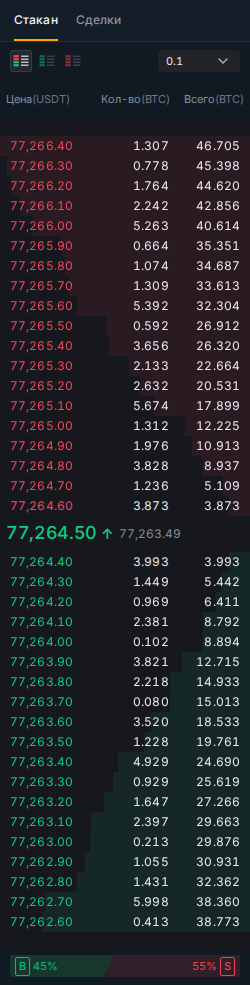
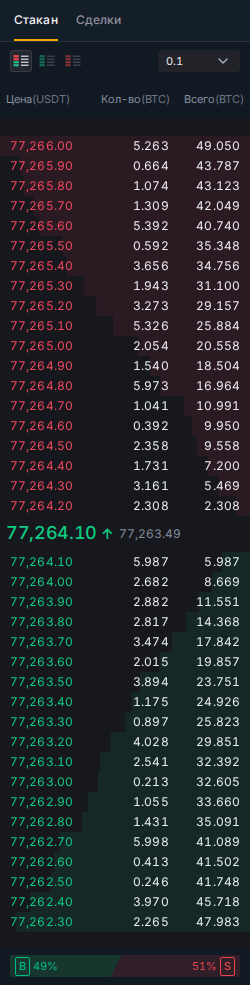
feat(orderbook): finish the reference details, and correct the row-height claim
Third pass. The owner read my "still different" list as unfinished work
rather than as scope; it was.

Row height is the one item I changed my mind about, by measuring instead
of arguing. I had written the difference off as zoomed captures. Measured:
the reference ladder is 34 CSS px in a 462 px panel (0.0736), ours is
20 px in a 250 px panel (0.080) — proportionally the same row, in a panel
half the width. Setting 34 px would not match the reference, it would
halve the levels our column can show. Left alone, with the numbers
recorded.

The rest is now done. The Spot centre is the reference's: last traded, a
fixed-width direction slot, the dollar equivalent, on one line. The spread
is not deleted — it is exact, on the band's tooltip — and the mid remains
the labelled fallback before the first trade, never a blank or a zero. The
last price comes from the shared market snapshot, so no request is added.
Spot gains the three display modes the reference has and the Futures book
already had. Grouping steps one decade at a time, 0,1 / 1 / 10 / 100 /
1 000 on a BTC book, replacing a ladder with two steps no major venue
offers and a coarsest step of 5 quote units.

Two things are deliberately not copied, and said rather than skipped
quietly: the overflow menu, which would open nothing, and the global font
stack, which belongs to the product rather than to this panel.

Nine book/terminal suites: 190 tests, 182 passed, 8 failed, all 8 known on
[…]

diff --git a/frontend/src/components/OrderBookPanel.tsx b/frontend/src/components/OrderBookPanel.tsx
@@ -1,6 +1,7 @@
 import { formatBookAmount, formatBookTotal, formatCompactBookValue } from '../lib/terminalPresentation';
 import { memo, useEffect, useMemo, useRef, useState } from 'react';
 import { useLanguage } from '../lib/i18n';
+import { useMarketTicker } from '../lib/useMarketData';
 import { formatPrice } from '../lib/formatNumber';
 import { PanelRightClose } from 'lucide-react';
 import { aggregateSpotBook, defaultSpotGroupStep, formatSpotBookNumber, formatSpotSpreadPercent,
@@ -121,6 +122,23 @@ export function OrderBookPanel({
 }) {
   const { t } = useLanguage();
   const asksViewport = useRef<HTMLDivElement>(null);
+  // Which side(s) to draw — the reference's three display modes, which the
+  // Futures book already had and this one did not.
+  const [mode, setMode] = useState<'both' | 'bids' | 'asks'>('both');
+  /* The LAST TRADED price for the centre band, from the shared market snapshot
+     the rest of the page already subscribes to — no extra request. The band
+     used to print the mid; the reference prints the last, with a direction
+     arrow, and keeps the mid's job (a sanity number) in the spread tooltip. */
+  const { ticker } = useMarketTicker(pair ?? '');
+  const lastTraded = ticker && Number.isFinite(Number(ticker.lastPrice)) && Number(ticker.lastPrice) > 0 ? Number(ticker.lastPrice) : null;
+  const previousLast = useRef<{ pair?: string; price: number | null }>({ pair, price: null });
+  const [direction, setDirection] = useState<'up' | 'down' | ''>('');
+  useEffect(() => {
+    const old = previousLast.current;
+    if (old.pair !== pair || lastTraded === null) setDirection('');
+    else if (old.price !== null && old.price !== lastTraded) setDirection(lastTraded > old.price ? 'up' : 'down');
+    previousLast.current = { pair, price: lastTraded };
+  }, [pair, lastTraded]);
   const [visibleLevels, setVisibleLevels] = useState(VISIBLE_LEVELS_PER_SIDE);
   useEffect(() => {
     const element = asksViewport.current;
@@ -189,6 +207,17 @@ export function OrderBookPanel({
       <div className="orderbook-header">
         <span className="orderbook-title">{t('trade.orderBook')}</span>
         <div className="orderbook-header-actions">
+          {/* The reference's three display modes. Same glyphs as the Futures
+              book so the two panels read as one component. */}
+          <div className="ob-modes" role="group" aria-label={t('trade.orderBook')}>
+            {(['both', 'bids', 'asks'] as const).map(value => <button type="button" key={value}
+              aria-label={value === 'both' ? `${t('trade.buy')} / ${t('trade.sell')}` : t(value === 'bids' ? 'trade.buy' : 'trade.sell')}
+              aria-pressed={mode === value} onClick={() => setMode(value)}>
+              <svg viewBox="0 0 24 20" aria-hidden="true">{[0, 1, 2, 3].map(i => <g key={i}>
+                <path d={`M2 ${3 + i * 4}h7`} stroke={value === 'asks' || (value === 'both' && i < 2) ? '#f6465d' : '#0ecb81'} strokeWidth="3" />
+                <path d={`M12 ${3 + i * 4}h10`} stroke="currentColor" strokeWidth="2" /></g>)}</svg>
+            </button>)}
+          </div>
           <select
             className="ob-group-select"
             value={groupStep}
@@ -221,25 +250,30 @@ export function OrderBookPanel({
           down and build a new one — measured at 14 per second on the Futures
           book on a replayed feed, and this panel keyed the same way. Row N is
           the Nth level out from the touch; the level is its contents. */}
-      <div className="orderbook-asks" ref={asksViewport}>
+      <div className={`orderbook-asks${mode === 'bids' ? ' ob-hidden' : ''}`} ref={asksViewport}>
         {asksDepth.map((level, index) => (
           <Row key={`sell-${index}`} level={level} decimals={decimals} spotStep={spotPrecision ? groupStep : undefined} side="SELL" maxDepth={maxDepth} onPick={onPickPrice} />
         ))}
       </div>
 
-      <div className="orderbook-spread">
+      {/* The reference centre: last traded, a fixed-width direction slot, then
+          the dollar equivalent. One line, and the arrow can never shift the
+          digits because it has its own slot. The spread is still exact and
+          still reachable — on the band's tooltip — instead of a second line of
+          small print under the price. When no trade has been seen the mid is
+          shown and labelled, rather than a blank. */}
+      <div className="orderbook-spread" title={spread !== null && spreadPct !== null
+        ? `${t('trade.spread')} ${priceLabel(spread)} (${spotPrecision ? formatSpotSpreadPercent(spreadPct) : `${spreadPct.toFixed(3)}%`})`
+        : undefined}>
         <div className="ob-spread-price">
-          {midPrice !== null ? priceLabel(midPrice) : '—'}
-          {showUsd && midPrice !== null && <span className="usd">≈ ${priceLabel(midPrice)}</span>}
+          <span className={`ob-last ${direction}`}>{lastTraded !== null ? priceLabel(lastTraded) : midPrice !== null ? priceLabel(midPrice) : '—'}</span>
+          <span className="ob-arrow" aria-hidden="true">{direction === 'up' ? '↑' : direction === 'down' ? '↓' : ''}</span>
+          {lastTraded === null && midPrice !== null && <small className="ob-mid-label">Mid</small>}
+          {showUsd && (lastTraded ?? midPrice) !== null && <span className="usd">≈ ${priceLabel((lastTraded ?? midPrice)!)}</span>}
         </div>
-        {spread !== null && spreadPct !== null && (
-          <div className="ob-spread-detail">
-            {t('trade.spread')} {priceLabel(spread)} ({spotPrecision ? formatSpotSpreadPercent(spreadPct) : `${spreadPct.toFixed(3)}%`})
-          </div>
-        )}
       </div>
 
-      <div className="orderbook-bids">
+      <div className={`orderbook-bids${mode === 'asks' ? ' ob-hidden' : ''}`}>
         {bidsDepth.map((level, index) => (
           <Row key={`buy-${index}`} level={level} decimals={decimals} spotStep={spotPrecision ? groupStep : undefined} side="BUY" maxDepth={maxDepth} onPick={onPickPrice} />
         ))}

diff --git a/frontend/src/pages/trade-terminal/TerminalAccountPanel.css b/frontend/src/pages/trade-terminal/TerminalAccountPanel.css
@@ -324,4 +324,32 @@
 .trade-terminal.trade-terminal.trade-terminal.trade-terminal.spot-terminal.market-reference.terminal-studio .ob-depth-bar.bid { background:rgba(14,203,129,.09); }
 .trade-terminal.trade-terminal.trade-terminal.trade-terminal.spot-terminal.market-reference.terminal-studio .orderbook-spread { background:#16181e; }
 .trade-terminal.trade-terminal.trade-terminal.trade-terminal.spot-terminal.market-reference.terminal-studio .ob-spread-price { font-weight:500; color:#eaecef; }
-.trade-terminal.trade-terminal.trade-terminal.trade-terminal.spot-terminal.market-reference.terminal-studio :is(.ob-spread-detail,.orderbook-spread .usd) { color:#848e9c; }
+/* `.ob-spread-detail` no longer renders on Spot — the spread moved to the
+   band's tooltip — so only the dollar equivalent is styled here. */
+.trade-terminal.trade-terminal.trade-terminal.trade-terminal.spot-terminal.market-reference.terminal-studio .orderbook-spread .usd { color:#848e9c; }
+
+/* Spot panel chrome, to the reference: three display modes, and a centre band
+   that is one line — last traded, a fixed-width direction slot, the dollar
+   equivalent. The arrow can never move the digits; the spread is exact and
+   lives on the band's tooltip instead of a second line of small print. */
+.trade-terminal.trade-terminal.trade-terminal.trade-terminal.spot-terminal.market-reference.terminal-studio .ob-modes {
+  display:flex; align-items:center; gap:2px;
+}
+.trade-terminal.trade-terminal.trade-terminal.trade-terminal.spot-terminal.market-reference.terminal-studio .ob-modes button {
+  appearance:none; border:0; background:transparent; border-radius:3px; padding:3px; line-height:0;
+  color:#848e9c; cursor:pointer;
+}
+.trade-terminal.trade-terminal.trade-terminal.trade-terminal.spot-terminal.market-reference.terminal-studio .ob-modes button svg { width:18px; height:15px; display:block; }
+.trade-terminal.trade-terminal.trade-terminal.trade-terminal.spot-terminal.market-reference.terminal-studio .ob-modes button[aria-pressed=true] { background:#22262f; color:#eaecef; }
+.trade-terminal.trade-terminal.trade-terminal.trade-terminal.spot-terminal.market-reference.terminal-studio .ob-hidden { display:none; }
+.trade-terminal.trade-terminal.trade-terminal.trade-terminal.spot-terminal.market-reference.terminal-studio .ob-spread-price {
+  display:flex; align-items:baseline; justify-content:flex-start; gap:6px;
+}
+.trade-terminal.trade-terminal.trade-terminal.trade-terminal.spot-terminal.market-reference.terminal-studio .ob-spread-price .ob-arrow {
+  display:inline-block; width:0.72em; text-align:center; font-size:0.72em; font-weight:600;
+}
+.trade-terminal.trade-terminal.trade-terminal.trade-terminal.spot-terminal.market-reference.terminal-studio .ob-spread-price .ob-last.up { color:#0ecb81; }
+.trade-terminal.trade-terminal.trade-terminal.trade-terminal.spot-terminal.market-reference.terminal-studio .ob-spread-price .ob-last.down { color:#f6465d; }
+.trade-terminal.trade-terminal.trade-terminal.trade-terminal.spot-terminal.market-reference.terminal-studio .ob-spread-price .ob-arrow,
+.trade-terminal.trade-terminal.trade-terminal.trade-terminal.spot-terminal.market-reference.terminal-studio .ob-spread-price .ob-mid-label { color:#848e9c; }
+.trade-terminal.trade-terminal.trade-terminal.trade-terminal.spot-terminal.market-reference.terminal-studio .ob-spread-price .usd { margin-left:auto; }

diff --git a/frontend/src/lib/__tests__/orderBookCalmMotion.test.ts b/frontend/src/lib/__tests__/orderBookCalmMotion.test.ts
@@ -190,3 +190,60 @@ describe('futures centre shows the mark price beside the last', () => {
     expect(page).not.toMatch(/getFuturesMarkPrice/);
   });
 });
+
+/**
+ * The remaining reference details the first two passes left out, and which
+ * the owner asked for by name.
+ */
+describe('the Spot panel carries the reference chrome', () => {
+  const spot = read('frontend/src/components/OrderBookPanel.tsx').replace(/\/\*[\s\S]*?\*\//g, '').replace(/^\s*\/\/.*$/gm, '');
+
+  it('centres on the LAST TRADED price with a fixed-width arrow, not the mid over a spread line', () => {
+    expect(spot).toContain('className={`ob-last ${direction}`}');
+    expect(spot).toContain('className="ob-arrow"');
+    // The old shape: mid as the headline and a second line of small print.
+    expect(spot).not.toContain('ob-spread-detail');
+    const arrow = css.slice(css.indexOf('.ob-spread-price .ob-arrow'));
+    expect(arrow).toMatch(/width:0\.\d+em/);
+    expect(arrow).toContain('text-align:center');
+  });
+
+  it('keeps the spread exact and reachable rather than deleting it', () => {
+    expect(spot).toContain("`${t('trade.spread')} ${priceLabel(spread)}");
+    expect(spot).toContain('formatSpotSpreadPercent(spreadPct)');
+  });
+
+  it('falls back to the mid, labelled, when no trade has been seen — never a blank or a zero', () => {
+    expect(spot).toContain("lastTraded !== null ? priceLabel(lastTraded) : midPrice !== null ? priceLabel(midPrice) : '—'");
+    expect(spot).toContain('className="ob-mid-label"');
+  });
+
+  it('reads the last price from the shared snapshot, adding no request of its own', () => {
+    expect(spot).toContain("import { useMarketTicker } from '../lib/useMarketData'");
+    expect(spot).not.toMatch(/setInterval|api\.getExternalTickers/);
+  });
+
+  it('offers the three display modes the reference has and the Futures book already had', () => {
+    expect(spot).toContain("useState<'both' | 'bids' | 'asks'>('both')");
+    expect(spot).toContain("mode === 'bids' ? ' ob-hidden' : ''");
+    expect(spot).toContain("mode === 'asks' ? ' ob-hidden' : ''");
+  });
+});
+
+/**
+ * Grouping. The reference offers decades — 0,1 / 1 / 10 / 100 / 1 000 on a
+ * BTC book. Ours offered 0,1 / 0,2 / 0,5 / 1 / 5: two steps no major venue
+ * has, and a coarsest step of 5 quote units, which on a $77k book is not
+ * coarse at all.
+ */
+describe('grouping steps follow the reference ladder', () => {
+  const lib = read('frontend/src/lib/spotOrderBook.ts');
+  it('steps one decade apart, finest step unchanged', () => {
+    expect(lib).toContain('[1, 10, 100, 1000, 10000]');
+    expect(lib).not.toContain('[1, 2, 5, 10, 50]');
+  });
+  it('still never synthesizes liquidity, only merges real levels', () => {
+    expect(lib).toContain('it never synthesizes');
+    expect(lib).not.toMatch(/\binterpolate\b|\bsynthesize\(/i);
+  });
+});

diff --git a/frontend/src/lib/spotOrderBook.ts b/frontend/src/lib/spotOrderBook.ts
@@ -23,10 +23,14 @@ export function spotBookMetrics(bids: readonly SpotBookLevel[], asks: readonly S
 
 export function spotGroupSteps(referencePrice: number | null): number[] {
   if (positive(referencePrice) === null) return [0.1, 0.2, 0.5, 1, 5];
-  // Five choices, capped at 5 quote units; scale down for inexpensive assets.
-  // Grouping merges real levels, it must never synthesize missing liquidity.
+  // Five choices, one DECADE apart, which is what the reference terminal
+  // offers on a BTC book: 0,1 / 1 / 10 / 100 / 1 000. The previous 1-2-5-10-50
+  // ladder gave two steps (0,2 and 0,5) that no major venue offers and stopped
+  // at 5 quote units, so a $77k book could never be grouped coarsely enough to
+  // read at a glance. Grouping merges real levels; it never synthesizes
+  // missing liquidity, and the finest step is unchanged.
   const unit = Math.min(0.1, 10 ** Math.max(-18, Math.floor(Math.log10(referencePrice!)) - 5));
-  return [1, 2, 5, 10, 50].map(factor => Number((unit * factor).toPrecision(14)));
+  return [1, 10, 100, 1000, 10000].map(factor => Number((unit * factor).toPrecision(14)));
 }
 
 export function defaultSpotGroupStep(referencePrice: number | null): number {

diff --git a/docs/AI_HANDOFF.md b/docs/AI_HANDOFF.md
@@ -2596,3 +2596,12 @@ withdrawal was placed.
 - **DATA UNTOUCHED.** Same as #121: no averaging, no interpolation, no invented liquidity; flush cadence, sequence handling, delta application, the crossed-book guard, stale/unavailable/connecting — unchanged and pinned. Spot's REST refresh cadence unchanged. Execution, orders, balances, margin, fees, P&L, liquidation not touched.
 - **TESTED.** Frontend `tsc` PASS, `npm run build` PASS. `orderBookCalmMotion.test.ts` **18/18**. Eight book/terminal suites: **177 passed, 6 failed — all 6 known on `main`, zero new** (Jest JSON diff against the `origin/main` baseline). Harness on all three targets: **0 remounts, 0 flash toggles, one row count each**.
 - **STILL DIFFERENT FROM THE VIDEO — not claimed as 1:1.** Row height stays 20px (the reference captures are zoomed; row height also drives `referenceRowCount`, so it was left alone deliberately). Spot's centre shows mid + `≈ $` + spread on two lines and has no direction arrow; the reference spot centre is last + arrow + `≈ $`. Row density and the grouping steps offered are ours. The reference's panel chrome (`Биржевой стакан` title, `…` menu, three-mode icons in Spot) is not reproduced — Spot has a select and a collapse button. Fonts are ours.
+
+### 2026-09-18 — Claude — Order book, third pass: the reference details the first two left out (same branch)
+
+- **Why.** The owner read my "still different" list as unfinished work rather than as scope, and said so: do it fully.
+- **Row height — measured, then left alone, and this is a correction of my earlier framing.** I had written it off as "the captures are zoomed". Measured properly: the reference ladder is 34 CSS px in a 462 px panel (0.0736); ours is 20 px in a 250 px panel (0.080). Proportionally identical — their panel is simply twice as wide. Setting 34 px would not match the reference, it would halve the levels our narrower column can show.
+- **Done.** Spot centre is now the reference's: last traded + fixed-width direction slot + dollar equivalent, on one line, from the shared market snapshot (`useMarketTicker` — no request added); the spread stays exact on the band's tooltip and the mid is the labelled fallback when no trade has been seen, never a blank or a zero. Spot gained the three display modes (both / bids / asks) the reference has and the Futures book already had. `spotGroupSteps` now steps one DECADE at a time — 0,1 / 1 / 10 / 100 / 1 000 on a BTC book — replacing a 1-2-5-10-50 ladder with two steps no major venue offers and a coarsest step of 5 quote units, useless on a $77k book. Finest step unchanged; grouping still only merges real levels.
+- **Deliberately not copied, and stated rather than quietly skipped.** The `…` overflow menu (it would open nothing — a dead control is worse than no control) and the global font stack, which belongs to the whole product rather than to this panel.
+- **Material files.** `OrderBookPanel.tsx`, `spotOrderBook.ts`, `TerminalAccountPanel.css`, `orderBookCalmMotion.test.ts` (+7, now 25), harness `/market/snapshot` stub so the last+arrow path is exercised by the fixture instead of only asserted in source.
+- **TESTED.** `tsc` PASS, `npm run build` PASS. Calm-motion suite **25/25**. Nine book/terminal suites: **190 tests, 182 passed, 8 failed — all 8 known on `main`** (the two `futuresTickerHeader` hash pins were re-confirmed in a worktree of `origin/main`), **zero new**. Harness on all three targets still 0 remounts, 0 flash toggles, one row count each. Fixture centre reads `77,258.40 ↓ ≈ $77,258.40`.

diff --git a/docs/qa/orderbook/README.md b/docs/qa/orderbook/README.md
@@ -60,3 +60,23 @@ was being replaced.
 against the row background):** row bg `#16181e`, text `#eaecef`, headers
 `#848e9c`, sell `#F6465D`, buy `#0ECB81`, depth tint alpha **0.09** on both
 sides. Applied to Futures, Private and Spot from one CSS block.
+
+## Third pass — the remaining reference details
+
+Row height was the one item I changed my mind about after measuring rather
+than after arguing. The reference frame's ladder is **34 CSS px in a 462 px
+panel** (ratio 0.0736); ours is **20 px in a 250 px panel** (0.080). The rows
+are already the same size *in proportion to the panel they live in* — the
+reference simply gives its book twice the width. Changing 20 px to 34 px
+would not match the reference, it would make our narrower panel show half as
+many levels. Left alone, on a measurement.
+
+Everything else on that list is done: the Spot centre is now last traded +
+fixed-width arrow + dollar equivalent on one line (the spread moved to the
+band's tooltip, exact, not deleted), the Spot panel gained the reference's
+three display modes, and grouping now steps one decade at a time —
+0,1 / 1 / 10 / 100 / 1 000 on a BTC book, which is the ladder the reference
+dropdown shows.
+
+Deliberately NOT copied: the `…` overflow menu (it would open nothing), and
+the global font stack, which is the whole product's, not the book's.
